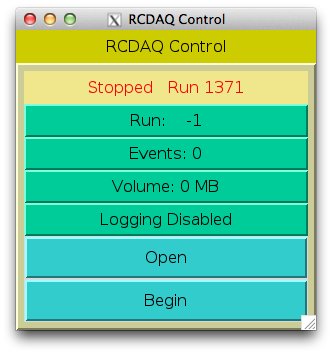
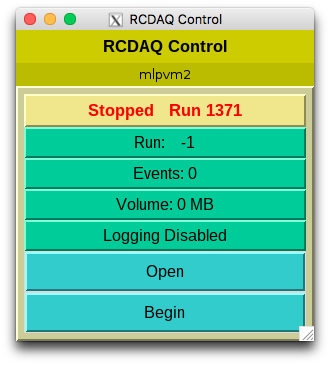
mlp - updated the documentation with the new features, such as the "named RDAQ instances". The GUI screen shots have been updated to reflect the changes, and the documntation ahs been updated accordingly.

diff --git a/doc/rcdaq_doc.tex b/doc/rcdaq_doc.tex
@@ -36,6 +36,27 @@
 
 \section{Changelog}
 
+\subsection{February 22, 2017}
+\begin{itemize}
+\item I added the concept of a named RCDAQ instance. We found that we
+  are often running multiple RCDAQ systems (such as the main DAQ and
+  the wirechamber readout at Fermilab). This has sometimes led to
+  confusion which instance you are interacting with. The name
+  defaults to the hostname, and can be set with
+  \verb|rcdaq_client daq_setname|, and retrieved with
+  \verb|rcdaq_client daq_getname|.  The aliases have also been
+  updated to make the command shortcuts, and the GUIs show the name
+  now, too. 
+\item The \verb|daq_status| used to show ``logging enabled'', and nothing if
+  disabled. So the absence of the ``enabled'' message indicated
+  that we are not logging. That has led to a number of operator
+  errors. \verb|daq_status| now shows ``enabled'' or ``disabled''. 
+\item I have added the start of the web service on the standard port
+  8899 in the template setup script ``\verb|setup.sh|''. If this port
+  is taken on your system, you need to change it. 
+
+\end{itemize}
+
 \subsection{August 30, 2016}
 \begin{itemize}
 \item Added documentation about the newly implemented web-based controls. 
@@ -70,12 +91,12 @@
 \subsection{What This is About}
 
 RCDAQ is a data acquisition package which is used in the R\&D efforts
-of the PHENIX experiment at the Relativistic Heavy Ion Collider.  The
-experiment has its main data acquisition which fills a room about
-size of a squash court. For a variety of R\&D efforts, it was
-necessary to get a smaller, portable, and lightweight data acquisition
-system which would support test beams, electronics developments,
-cosmic ray tests, and the like.
+of the PHENIX and sPHENIX experiments at the Relativistic Heavy Ion
+Collider.  The experiment has its main data acquisition which fills a
+room about size of a squash court. For a variety of R\&D efforts, it
+was necessary to get a smaller, portable, and lightweight data
+acquisition system which would support test beams, electronics
+developments, cosmic ray tests, and the like.
 
 Meanwhile, the system is in use for a number of other projects, such
 as a number of PET scanners for medical imaging applications, the
@@ -104,7 +125,7 @@ The development of RCDAQ was governed by a number of design principles:
   You do not have to devote your system to the task of running the
   DAQ. (As a rule of thumb, if your system has a working version of the 
   root package, you will be able to install RCDAQ and the assorted
-  components). 
+  components). RCDAQ is also able to build and run on a Raspberry Pi.
 
 \item {\bf powerful and fast.} The most demanding device supported by
   RCDAQ produces sustained data rates of 400\,MB/s.
@@ -211,7 +232,7 @@ voltage slightly'').
 The Packet id, however, does not specify how the data are stored
 within the Packet. That is done by another field, historically called
 the \emph{hitformat}, which indicates what kind of data is kept in
-that Packet. This is the field which in the end identifies a decoding
+that Packet. This is the field that in the end identifies a decoding
 algorithm for the data, and which assures that your analysis code is
 shielded from changes in the low-level data format of a given FEM or other
 readout device. 
@@ -340,12 +361,15 @@ at this stage there is no more information to be had. Later we will look
 at a ``double-ell'' -- ``-ll'' -- switch output.  
 
 \begin{verbatim}
-$ rcdaq_client daq_status -l
+$ daq_status -l
 Stopped
-Filerule:   rcdaq-%08d-%04d.evt
-Buffer Sizes:     65536 KB
+Logging disabled
+Filerule:     rcdaq-%08d-%04d.evt
+Buffer Sizes:     32832 KB adaptive buffering: 15 s
+Web control Port:  8899
+Elog: not defined
+ -- defined Run Types:  (none)
 No Plugins loaded
-$
 \end{verbatim}
 
 The last line says that we have not acquainted RCDAQ with any particular
@@ -460,14 +484,18 @@ run (number 3), and look at the ``long'' status:
 $ rcdaq_client daq_open
 $ rcdaq_client daq_begin
 Run 3 started
-$ rcdaq_client daq_status -l
+$ daq_status -l
 Running
 Run Number:   3
-Event:        436
-Run Volume:   0.072876 MB
+Event:        2
+Run Volume:   3.05176e-05 MB
 Filename:     rcdaq-00000003-0000.evt
+Duration:     34 s
 Filerule:     rcdaq-%08d-%04d.evt
-Duration:     5 s
+Buffer Sizes:     32832 KB adaptive buffering: 15 s
+Web control Port:  8899
+Elog: not defined
+ -- defined Run Types:  (none)
 No Plugins loaded
 \end{verbatim}
 
@@ -560,29 +588,29 @@ depending on your preferred shell.
 
 In scripts you should \emph{always} use the long form of the commands. 
 
-Here are the aliases which you get:
+Here are the aliases that you get:
 
 \begin{verbatim}
 alias daq_begin='rcdaq_client  daq_begin'
-alias daq_clear_readlist='rcdaq_client  daq_clear_readlist'
-alias daq_close='rcdaq_client  daq_close'
-alias daq_define_runtype='rcdaq_client  daq_define_runtype'
 alias daq_end='rcdaq_client  daq_end'
-alias daq_fake_trigger='rcdaq_client  daq_fake_trigger'
+alias daq_setrunnumberfile='rcdaq_client  daq_setrunnumberfile'
+alias daq_define_runtype='rcdaq_client  daq_define_runtype'
+alias daq_set_runtype='rcdaq_client  daq_set_runtype'
 alias daq_get_runtype='rcdaq_client  daq_get_runtype'
-alias daq_list_readlist='rcdaq_client  daq_list_readlist'
 alias daq_list_runtypes='rcdaq_client  daq_list_runtypes'
+alias daq_setfilerule='rcdaq_client  daq_setfilerule'
 alias daq_open='rcdaq_client  daq_open'
-alias daq_set_adaptivebuffering='rcdaq_client  daq_set_adaptivebuffering'
-alias daq_set_maxbuffersize='rcdaq_client  daq_set_maxbuffersize'
+alias daq_close='rcdaq_client  daq_close'
+alias daq_fake_trigger='rcdaq_client  daq_fake_trigger'
+alias daq_list_readlist='rcdaq_client  daq_list_readlist'
+alias daq_clear_readlist='rcdaq_client  daq_clear_readlist'
+alias daq_status='rcdaq_client  daq_status'
 alias daq_set_maxevents='rcdaq_client  daq_set_maxevents'
 alias daq_set_maxvolume='rcdaq_client  daq_set_maxvolume'
-alias daq_set_runtype='rcdaq_client  daq_set_runtype'
-alias daq_setfilerule='rcdaq_client  daq_setfilerule'
-alias daq_setrunnumberfile='rcdaq_client  daq_setrunnumberfile'
-alias daq_setruntype='rcdaq_client  daq_setruntype'
+alias daq_set_maxbuffersize='rcdaq_client  daq_set_maxbuffersize'
+alias daq_setname='rcdaq_client  daq_setname'
+alias daq_set_adaptivebuffering='rcdaq_client  daq_set_adaptivebuffering'
 alias daq_shutdown='rcdaq_client  daq_shutdown'
-alias daq_status='rcdaq_client  daq_status'
 alias daq_webcontrol='rcdaq_client daq_webcontrol'
 \end{verbatim}
 
@@ -752,43 +780,48 @@ data.  The ``device\_random'' we have used before is in this group.
 The most prominent pseudo devices are 
 \begin{description}
 
-\item{device\_file} this device absorbs the contents of another
+\item[\bf device\_file] this device absorbs the contents of another
   (small\footnote{Without going into all the details: if your file is
-  expected to be larger than 128KB, you need to say how big it is. RCDAQ
-  needs to calculate the worst-case maximum event size per event type,
-  although virtually all events will be smaller due to
+  expected to be larger than 128KB, you need to say how big it
+  is. RCDAQ needs to calculate the worst-case maximum event size per
+  event type, although virtually all events will be smaller due to
   zero-suppression. RCDAQ knows the maximum sizes of each device
   except this one.}) file as its readout. In this way, you can add the
   contents of any other file to your data stream. You can use this to
   add a description, or add automatically generated files, or even an
-  image to the data stream. If the file does not exist, no packet is generated.
+  image to the data stream. If the file does not exist, no packet is
+  generated. You can see on page~\pageref{packet900} how we use this
+  feature to self-document the RCDAQ setup itself. It is not uncommon
+  to have a large number of such file devices in the begin-run event
+  -- at a recent test beam we had about 60 of them to capture all
+  relevant detector settings for each run.
 
-\item{device\_file\_delete} \label{delete}like device\_file, except
-  that this device also deletes the file after it has been read. {\bf
-    Use this device with caution.} This device was added to allow you
-  to \emph{occasionally} add some information to the data
+\item[\bf device\_file\_delete] \label{delete}like device\_file,
+  except that this device also deletes the file after it has been
+  read. {\bf Use this device with caution.} This device was added to
+  allow you to \emph{occasionally} add some information to the data
   stream. Let's say that you want some ``slow'' readout added, for
   eample, a temperature reading.  Since no packet is generated if the
   file does not exist, you can define a device\_file\_delete to the
   readout of data events, and most events will not have the
   packet. But every few minutes, an external process, such as a cron
-  job, could generate the file with the temperature information. It will
-  be added as a packet in the next event and subsequently deleted, so
-  it would be added to one event only. In this way you could track the
-  temperature over time.
+  job, could generate the file with the temperature information. It
+  will be added as a packet in the next event and subsequently
+  deleted, so it would be added to one event only. In this way you
+  could track the temperature over time.
 
 
-\item{device\_filenumbers} this device reads a text file and looks for
+\item[\bf device\_filenumbers] this device reads a text file and looks for
   (integer) numbers on a line all by themselves. While the
   device\_file adds the original text, device\_filenumbers discards
   the text and adds those numbers in binary form.  This makes them
   much easier accessible in the later analysis.
 
-\item{device\_filenumbers\_delete} like device\_filenumbers, except
+\item[\bf device\_filenumbers\_delete] like device\_filenumbers, except
   that this device also deletes the file after it has been read. See
   the explanation of device\_file\_delete above. 
 
-\item{device\_command} this device does not add any data but executes
+\item[\bf device\_command] this device does not add any data but executes
   an arbitrary command.  This way, you can trigger actions at certain
   times.  {\bf You must not call rcdaq\_client commands from the
     command, as this leads to a deadlock.} As a convenience, rcdaq
@@ -811,19 +844,20 @@ The most prominent pseudo devices are
     from a script. If no Elog is defined, the variables are empty. 
   \end{description}
 
-\item{device\_random} we have already seen the random
+\item[\bf device\_random] we have already seen the random
   number-generating device in the example above.
 
-\item{device\_deadtime} this device can add a configurable amount of
-  artificial deadtime anywhere in the traversal of the readlist.  I
+\item[\bf device\_deadtime] this device can add a configurable amount
+  of artificial deadtime anywhere in the traversal of the readlist.  I
   could envision a few applications in actual data taking, but mostly
   this is a debugging tool that can be used to slow down the data
   rate, but also to make the event loop run as fast as possible
   (enable this device to trigger but set zero deadtime) for benchmarks
   or debugging. It can optionally pretend to generate adjustable
   amounts of data. Different from daq\_device\_random, it wastes no
-  time to fill in any meaningful values. If you then enable writing, 
-  one can benchmark the ``empty'' DAQ speed. 
+  time to fill in any meaningful values. If you then enable writing,
+  one can benchmark the ``empty'' DAQ speed. See
+  chapter~\ref{speedtests} for details.
 
 
 \end{description}
@@ -916,14 +950,18 @@ Now we start and end a run:
 \begin{verbatim}
 $ rcdaq_client daq_begin
 Run 4 started
-$ rcdaq_client daq_status -l
+$ daq_status -l
 Running
 Run Number:   4
-Event:        764
-Run Volume:   0.129135 MB
+Event:        1324
+Run Volume:   0.5662 MB
 Filename:     rcdaq-00000004-0000.evt
+Duration:     28 s
 Filerule:     rcdaq-%08d-%04d.evt
-Duration:     8 s
+Buffer Sizes:     32832 KB adaptive buffering: 15 s
+Web control Port:  8899
+Elog: not defined
+ -- defined Run Types:  (none)
 No Plugins loaded
 $ rcdaq_client daq_end
 Run 4 ended
@@ -1101,7 +1139,7 @@ The command \verb|rcdaq_client help| lists all available rcdaq commands:
    help                                 show this help text
    daq_status [-s] [-l]                 display status [short] [long]
    daq_open                             enable logging
-   daq_begin [run-number]               start taking data for run-number, or auto-increment
+   daq_begin [run-number]              start taking data for run-number, or auto-increment
    daq_end                              end the run
    daq_close                            disable logging
    daq_setfilerule file-rule            set the file rule default rcdaq-%08d-%04d.evt
@@ -1120,6 +1158,7 @@ The command \verb|rcdaq_client help| lists all available rcdaq commands:
    load  shared_library_name            load a "plugin" shared library
    create_device [device-specific parameters]
 
+   daq_setname <string>               define an identifying string for this RCDAQ instance
    daq_setrunnumberfile file            define a file to maintain the current run number
    daq_set_maxbuffersize n_KB           adjust the size of buffers written to n KB
    daq_set_adaptivebuffering seconds    enable adaptive buffering at n seconds (0 = off)
@@ -1199,7 +1238,7 @@ calibration runs apart from actual beam runs, and have more meaningful
 file names.  There is no practical limit to the number of such
 types. However, it is no more than a convenient shortcut to set file
 rules. You can still manually set a file rule which is different from
-any of the defines ones.
+any of the defined ones.
 
 \item[daq\_set\_runtype type] This sets the file rule to the
   predefined file rule, such as (from the example above)
@@ -1246,23 +1285,16 @@ rcdaq_client daq_setrunnumberfile $HOME/.last_rcdaq_runnumber.txt
 
 \item[daq\_set\_maxbuffersize n\_KB] Adjust the size of buffers to n
   KB. With the advent of ``adaptive buffering'' (next command), this
-  can largely be ignored. RCDAQ knows up front how large an event can
-  become, worst case (if zero-suppression yields no savings etc). The
-  DAQ is filling a memory buffer which holds many events; this is
-  largely a storage-technology concept and generally invisible to
-  you. Since the event gets assembled directly in the memory buffer,
-  and the actual length is known only once the assembly is complete,
-  RCDAQ needs to check that a maximum-sized event will still fit into
-  the buffer. If not, it will start a new buffer, scheduling the other
-  one to be written out. This command was available mostly for the
+  can largely be ignored. This command was available mostly for the
   benfit of the online monitoring, since the monitoring receives one
-  buffer at a time. If you have a low data rate and small events, it
-  can take several minutes (or even hours) for one buffer to be filled
-  and the monitoring to receive data. This was the reason why one
-  could reduce the size, to feed the online monitoring a more steady
-  data stream. This was very sub-optimal, because the data taking
-  efficiency is lower with smaller buffers, so one (small) size does
-  not fit all. This brings us to the next command:
+  buffer at a time. If you have a low data rate (think a cosmics
+  telescope) and small events, it can take several minutes (or even
+  hours) for a large buffer to be filled and the monitoring to receive
+  data. This was the reason why one could reduce the buffer size, to
+  feed the online monitoring a more steady data stream. This was very
+  sub-optimal, because the data taking efficiency is lower with
+  smaller buffers, so one (small) size does not fit all. This brings
+  us to the next command:
 
 \item[daq\_set\_adaptivebuffering seconds] This is a much better
   solution for the above problem. By default, adaptive buffering is
@@ -1273,7 +1305,7 @@ rcdaq_client daq_setrunnumberfile $HOME/.last_rcdaq_runnumber.txt
   time to 0 disables adaptive buffering.
 
 \item[daq\_webcontrol port\_number ] Start the web-based controls on
-  the given port number (defaults to port 8080 if omitted). See
+  the given port number (defaults to port 8899 if omitted). See
   chapter~\ref{webcontrols} for details.
 
 \item[elog elog-server port logbook] Specify the whereabouts for an
@@ -1526,7 +1558,7 @@ The web-based control interface acts like a web server running on the
 chosen port. Since the RCDAQ system cannot make any assumptions about
 port numbers available on your system, the web-based control interface
 cannot be brought up automatically at startup. The default port is
-8080, but you can choose any port number that is available on your
+8899, but you can choose any port number that is available on your
 system.
 
 You need to start the web control interface with the command
@@ -1538,14 +1570,14 @@ For example,
 \begin{verbatim}
  rcdaq_client  daq_webcontrol
 \end{verbatim}
-starts the interface on the default port number 8080. You can then access the
+starts the interface on the default port number 8899. You can then access the
 web-based controls on your local machine where RCDAQ is running as
 \begin{verbatim}
- http://localhost:8080
+ http://localhost:8899
 \end{verbatim}
 or on another system as
 \begin{verbatim}
- http://your.daq.machine:8080
+ http://your.daq.machine:8899
 \end{verbatim}
 
 It is highly recommended that you add the web control startup command 
@@ -1637,7 +1669,7 @@ I show a few examples of real-life setups that were used in the past.
 I will expand on this chapter as time progresses.
 
 \subsection{Running Speed Tests}
-
+\label{speedtests}
 Let's say that you want to see how fast your system can take data when
 you pull out all the stops. Actually reading out devices later will
 invariably slow you down, but it is good to know where the limits of
@@ -1736,6 +1768,7 @@ motion_cam_parse.pl > "$FILE"
 \end{verbatim}
 
 and then we configure rcdaq as follows:
+\label{packet900}
 
 \begin{verbatim} 
 #! /bin/sh
@@ -2120,12 +2153,17 @@ Stopped
 Logging enabled
 have a trigger object
 Filerule:     rcdaq-%08d-%04d.evt
-Buffer Sizes:     1032 KB adaptive buffering: 15 s
-Elog:  localhost RCDAQLog Port 666
+Buffer Sizes:     32832 KB adaptive buffering: 15 s
+Web control Port:  8899
+Elog: not defined
  -- defined Run Types:  (none)
 List of loaded Plugins:
  - DRS Plugin, provides -
- -     device_drs (evttype, subid, triggerchannel, triggerthreshold[mV], slope[n/p], delay[ns], speed) - DRS4 Eval Board
+ -     device_drs (evttype, subid, triggerchannel, triggerthreshold[mV], slope[n/p], delay[ns], 
+                   speed, start_ch, nch, baseline[mV]) - DRS4 Eval Board
+ -     device_drs_by_serialnumber (evttype, subid, serialnumber, triggerchannel, 
+                   triggerthreshold[mV], slope[n/p], delay[ns], 
+                   speed, start_ch, nch, baseline[mV]) - DRS4 Eval Board
 \end{verbatim}
 }
 
